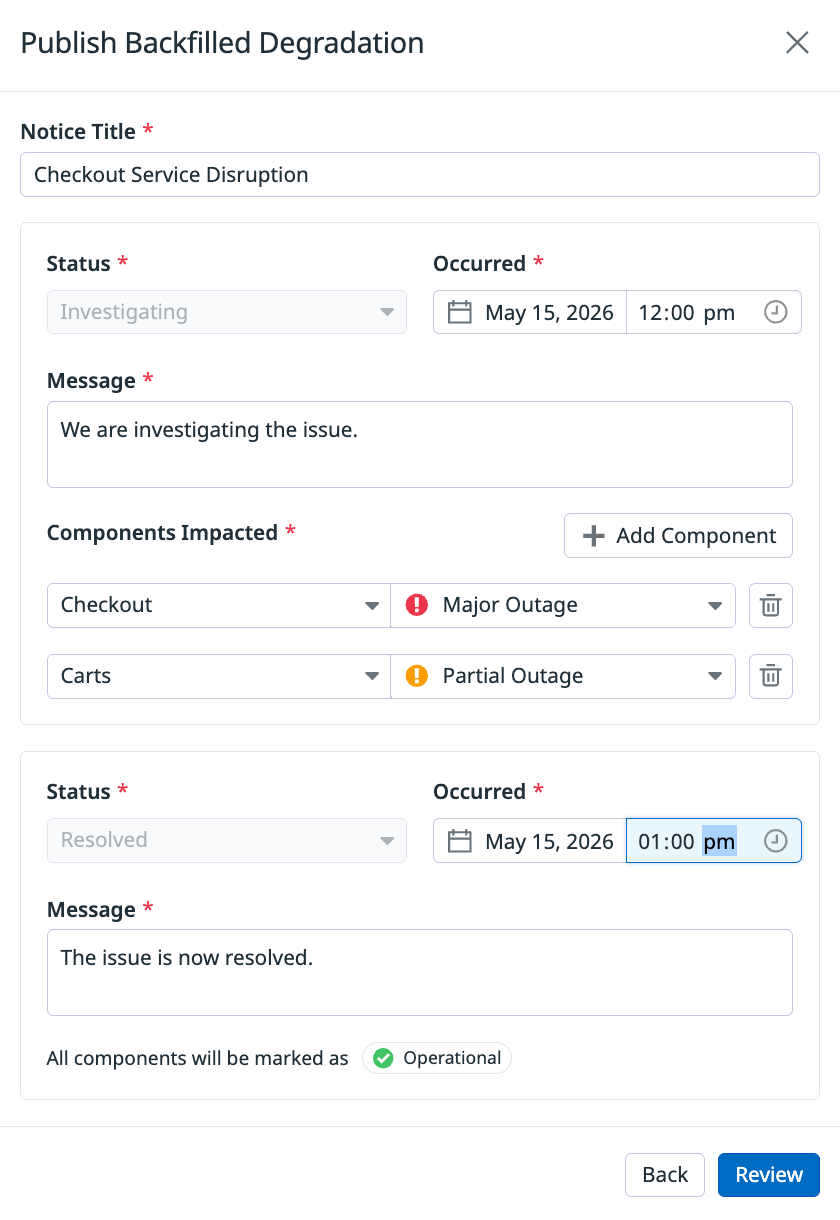
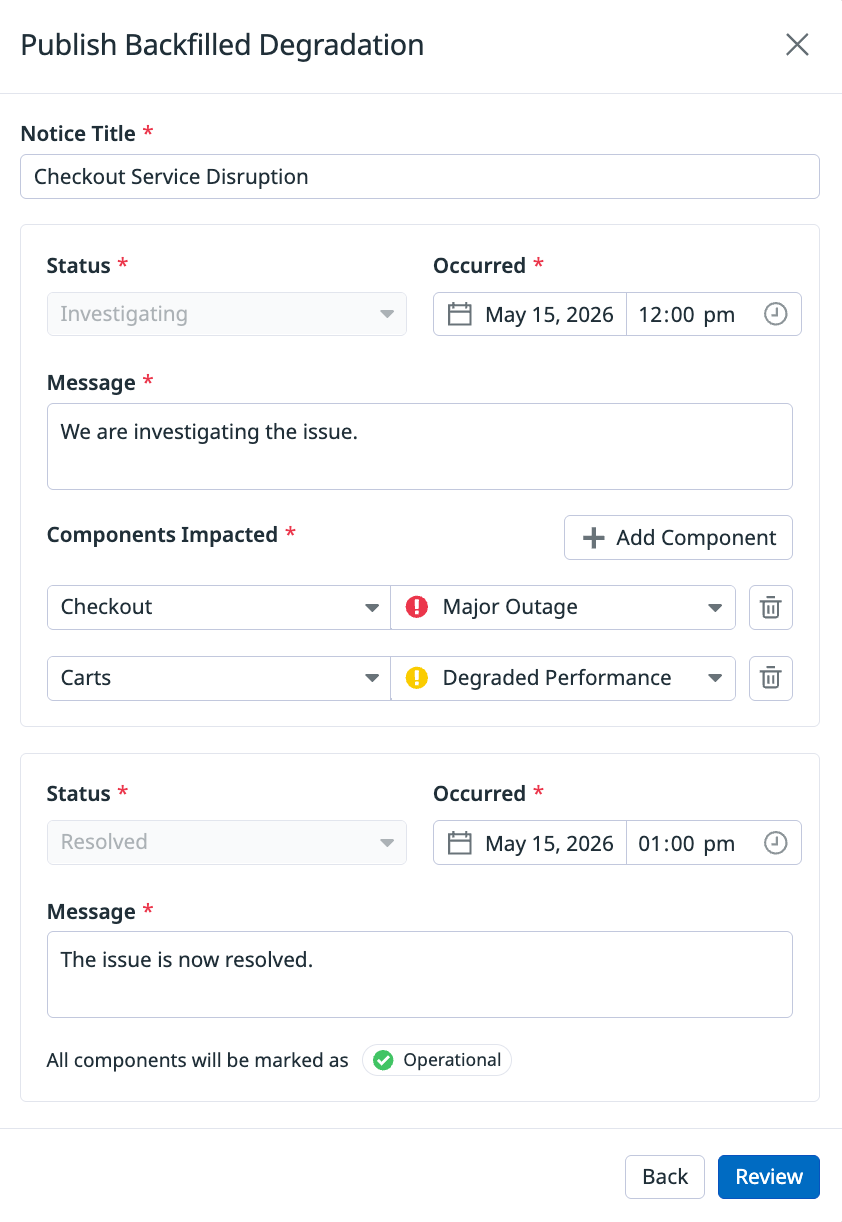
Update doc

diff --git a/content/en/incident_response/status_pages/_index.md b/content/en/incident_response/status_pages/_index.md
@@ -152,7 +152,7 @@ From a status page, under **Publish Notice**, click **Publish Backfilled Notice*
 | Field | Description |
 | ---- | ---- |
 | **Notice title** | Short, clear description of the incident <br>*Example: Increased error rates in US region* |
-| **Updates** | One or more timestamped updates reconstructing the incident timeline. Each update includes: <br>- **Started at**: Start time of this phase <br>- **Status**: Investigating, Identified, Monitoring, or Resolved <br>- **Description**: Details about the incident at this stage <br>- **Components impacted**: Affected components |
+| **Updates** | One or more timestamped updates reconstructing the incident timeline. Each update includes a started at timestamp, status (Investigating, Identified, Monitoring, or Resolved), description, and impacted components. |
 
 {{< img src="service_management/status_pages/publish_status_page_backfill_degradation.png" alt="Example publish backfilled notice modal for degradations" style="width:60%;" >}}
 
@@ -190,7 +190,7 @@ From a status page, under **Publish Notice**, click **Publish Backfilled Notice*
 | Field | Description |
 | ---- | ---- |
 | **Notice title** | Clear description of the maintenance activity <br>*Example: Database infrastructure upgrade* |
-| **Updates** | Two timestamped updates representing the start and end of the maintenance window. Each update includes a start time, status, description, and impacted components: <br>- **Initial update**: Status set to In Progress <br>- **Final update**: Status set to Completed |
+| **Updates** | Exactly two timestamped updates representing the start and end of the maintenance window. Each update requires a started at timestamp, status (In Progress or Completed), description, and affected components. |
 
 {{< img src="service_management/status_pages/publish_status_page_backfill_maintenance.png" alt="Example publish backfilled notice modal for maintenance windows" style="width:60%;" >}}
 